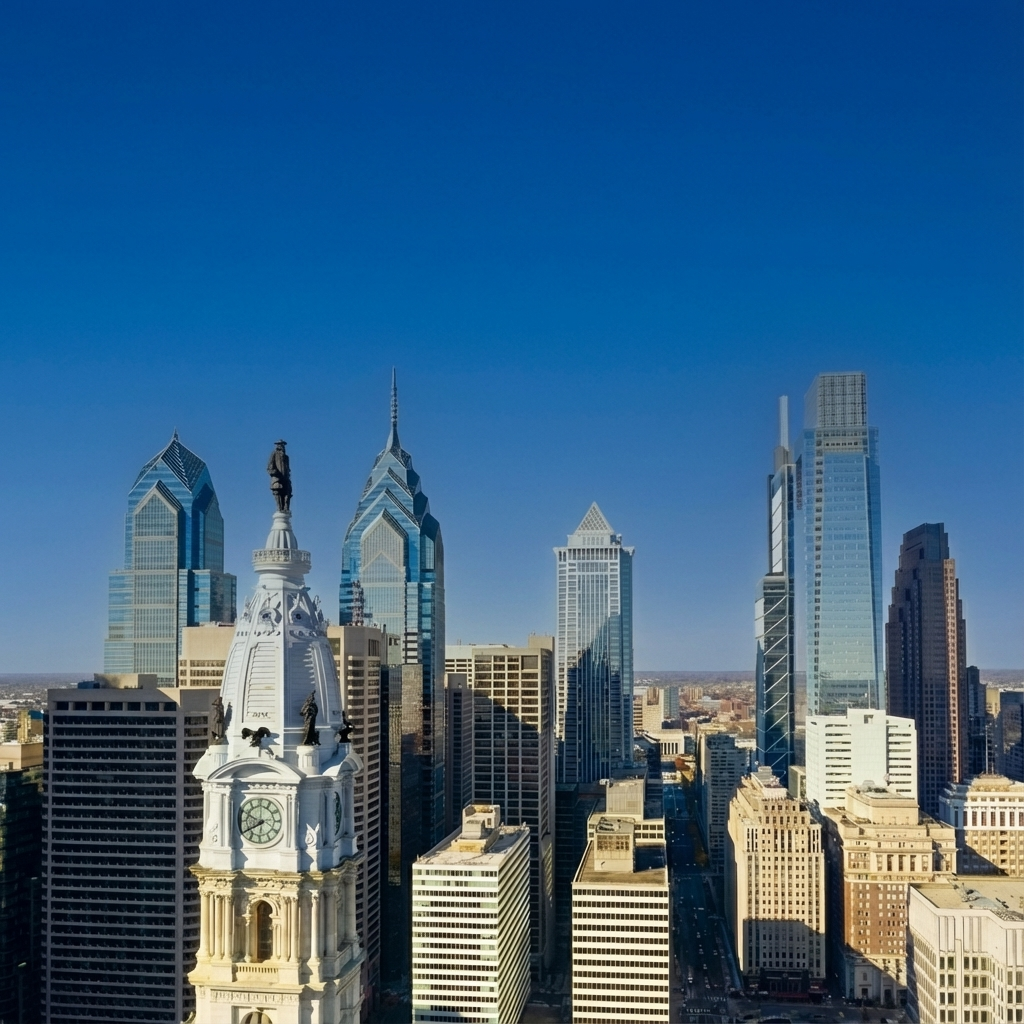
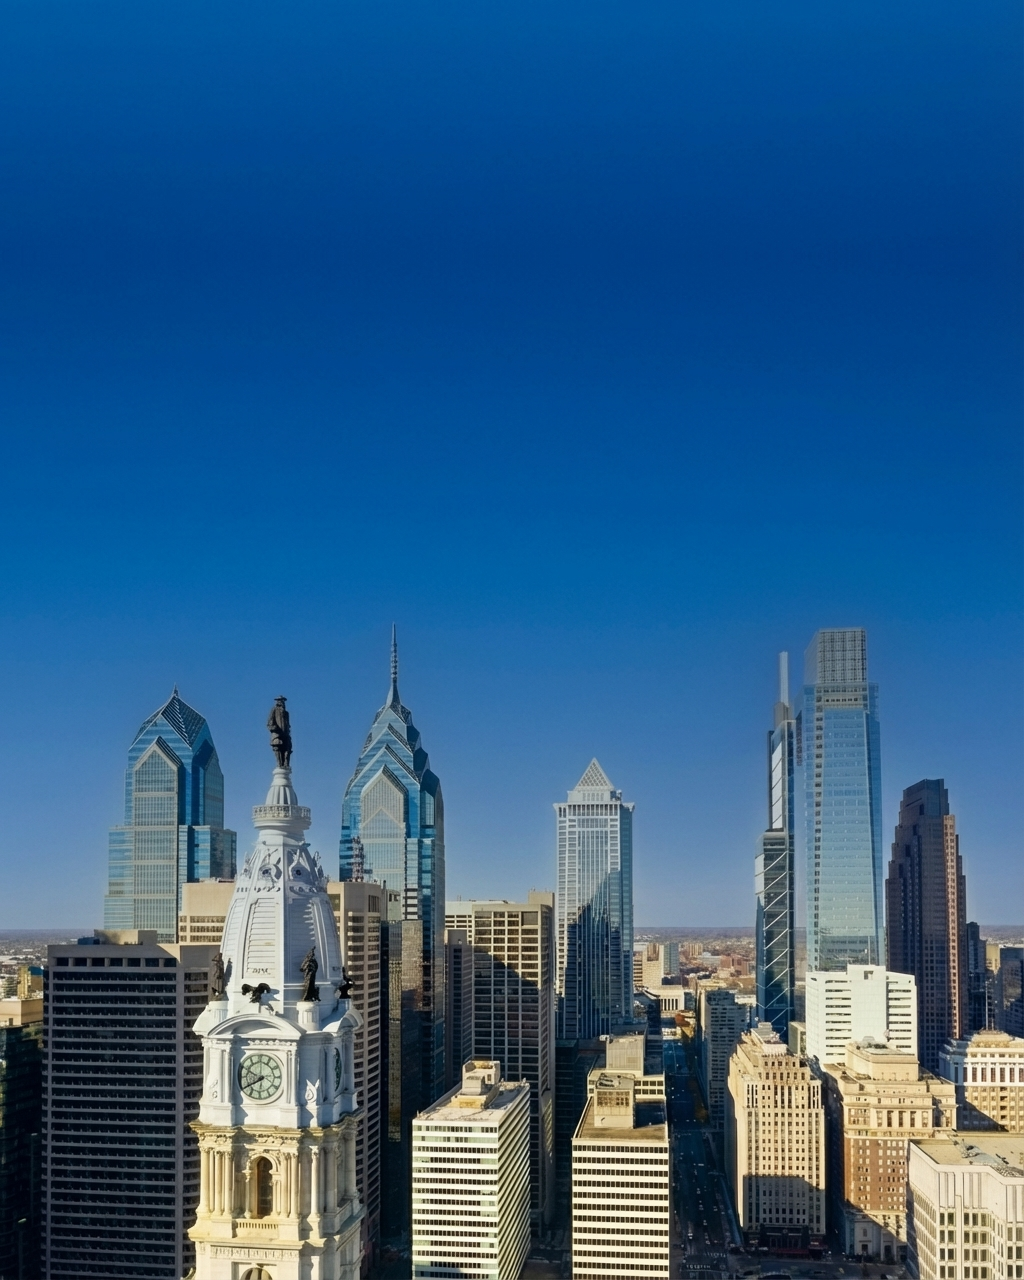
feat: Add rasterized cover and poster images, and refine booklet HTML/CSS for precise print layout and background image sizing.

diff --git a/symposium/booklet_2026.html b/symposium/booklet_2026.html
@@ -17,6 +17,13 @@
         body {
             font-family: 'Outfit', sans-serif;
             background-color: white;
+            display: flex;
+            flex-direction: column;
+            align-items: center;
+            /* Center alignment restored */
+            gap: 2rem;
+            padding: 2rem 0;
+            min-height: 100vh;
         }
 
         .serif-font {
@@ -30,18 +37,23 @@
                 radial-gradient(circle at 50% 50%, rgba(15, 23, 42, 1) 0%, transparent 100%);
         }
 
-        /* Page Layout for Printing (8.5 x 11 inches) */
+        /* Page Layout for Printing (816px x 1056px = 8.5in x 11in) */
+        /* Using explicit pixels to ensure even width for cleaner capturing */
         .page {
-            width: 8.5in;
-            height: 11in;
+            width: 816px;
+            /* Explicit even pixel width */
+            height: 1056px;
             position: relative;
             overflow: hidden;
             background-color: white;
             color: #1e293b;
             display: flex;
             flex-direction: column;
-            box-shadow: none;
-            margin: 2rem auto;
+            border: 1px solid #94a3b8;
+            /* Visible gray solid line */
+            box-shadow: none !important;
+            /* Strictly no shadow */
+            margin: 0;
             flex-shrink: 0;
         }
 
@@ -103,7 +115,7 @@
         <!-- 1. Full Vertical Background Image (V6 - Visually Extended & Lowered) -->
         <div class="absolute inset-0 bg-gradient-to-b from-[#020617] via-[#0f172a] to-slate-900 z-0"></div>
         <div class="absolute inset-0 bg-[url('assets/symposium_poster_final_v6_tall.png')] bg-no-repeat z-0"
-            style="background-size: 120% auto; background-position: center calc(100% + 4rem); -webkit-mask-image: linear-gradient(to bottom, transparent 0%, transparent 10%, black 40%, black 100%); mask-image: linear-gradient(to bottom, transparent 0%, transparent 10%, black 40%, black 100%);">
+            style="background-size: 100% auto; background-position: center calc(100% + 4rem); -webkit-mask-image: linear-gradient(to bottom, transparent 0%, transparent 10%, black 40%, black 100%); mask-image: linear-gradient(to bottom, transparent 0%, transparent 10%, black 40%, black 100%);">
         </div>
 
         <!-- 2. Subtle Line Drawing Overlay -->
